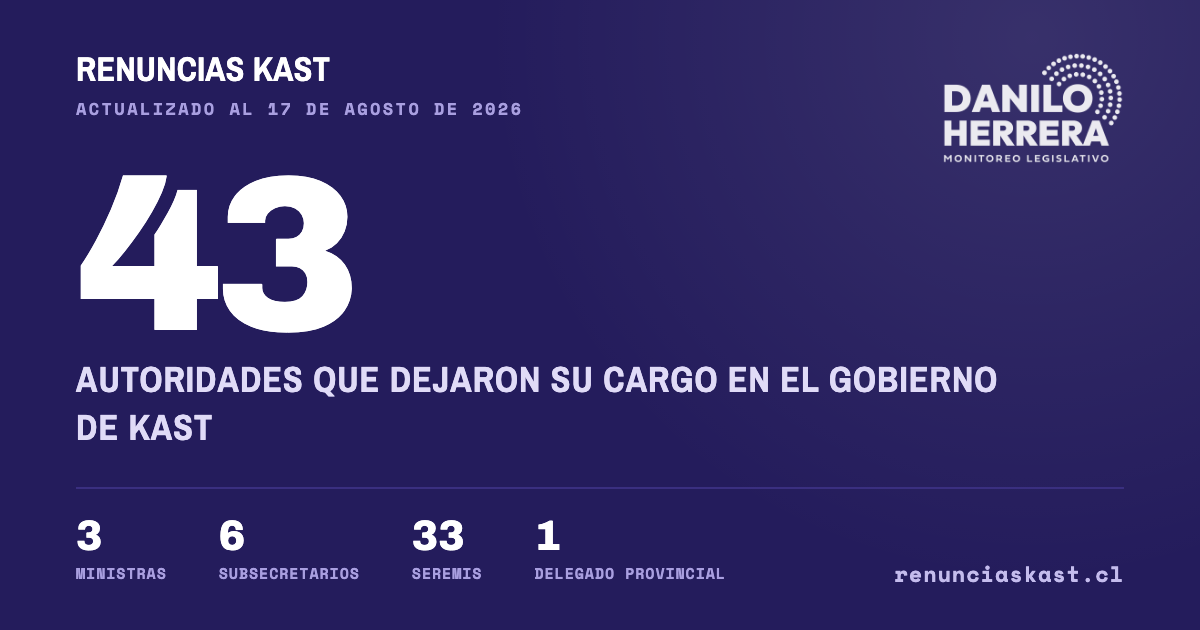
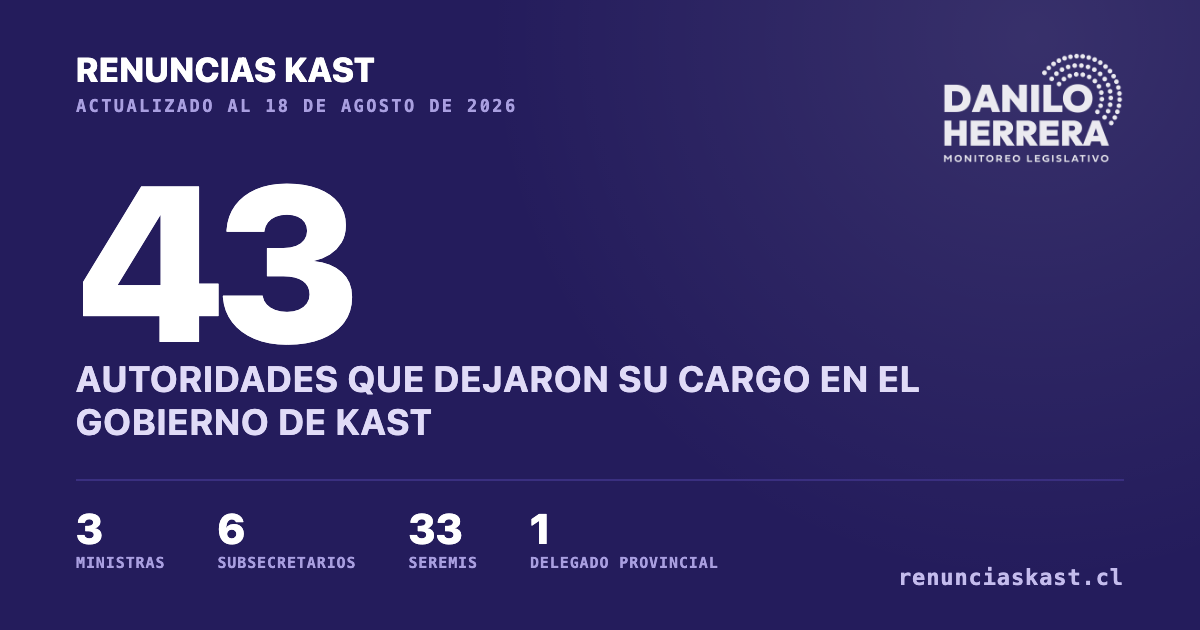
Actualizar fecha al 18 de agosto de 2026
Actualiza el header, el hero y la imagen de redes sociales.

diff --git a/index.html b/index.html
@@ -184,7 +184,7 @@
     </div>
     <div class="sh-meta">
       <div><b>Fuente</b> Prensa</div>
-      <div><b>Actualización</b> 17 ago 2026</div>
+      <div><b>Actualización</b> 18 ago 2026</div>
     </div>
   </div>
 </header>
@@ -193,7 +193,7 @@
 <header class="hero">
   <div class="wrap">
     <div class="tracker">
-      <div class="meta">Actualizado al 17 de agosto de 2026</div>
+      <div class="meta">Actualizado al 18 de agosto de 2026</div>
       <div class="big">43</div>
       <div class="cap">autoridades que dejaron su cargo en el gobierno de Kast</div>
       <div class="strip">
